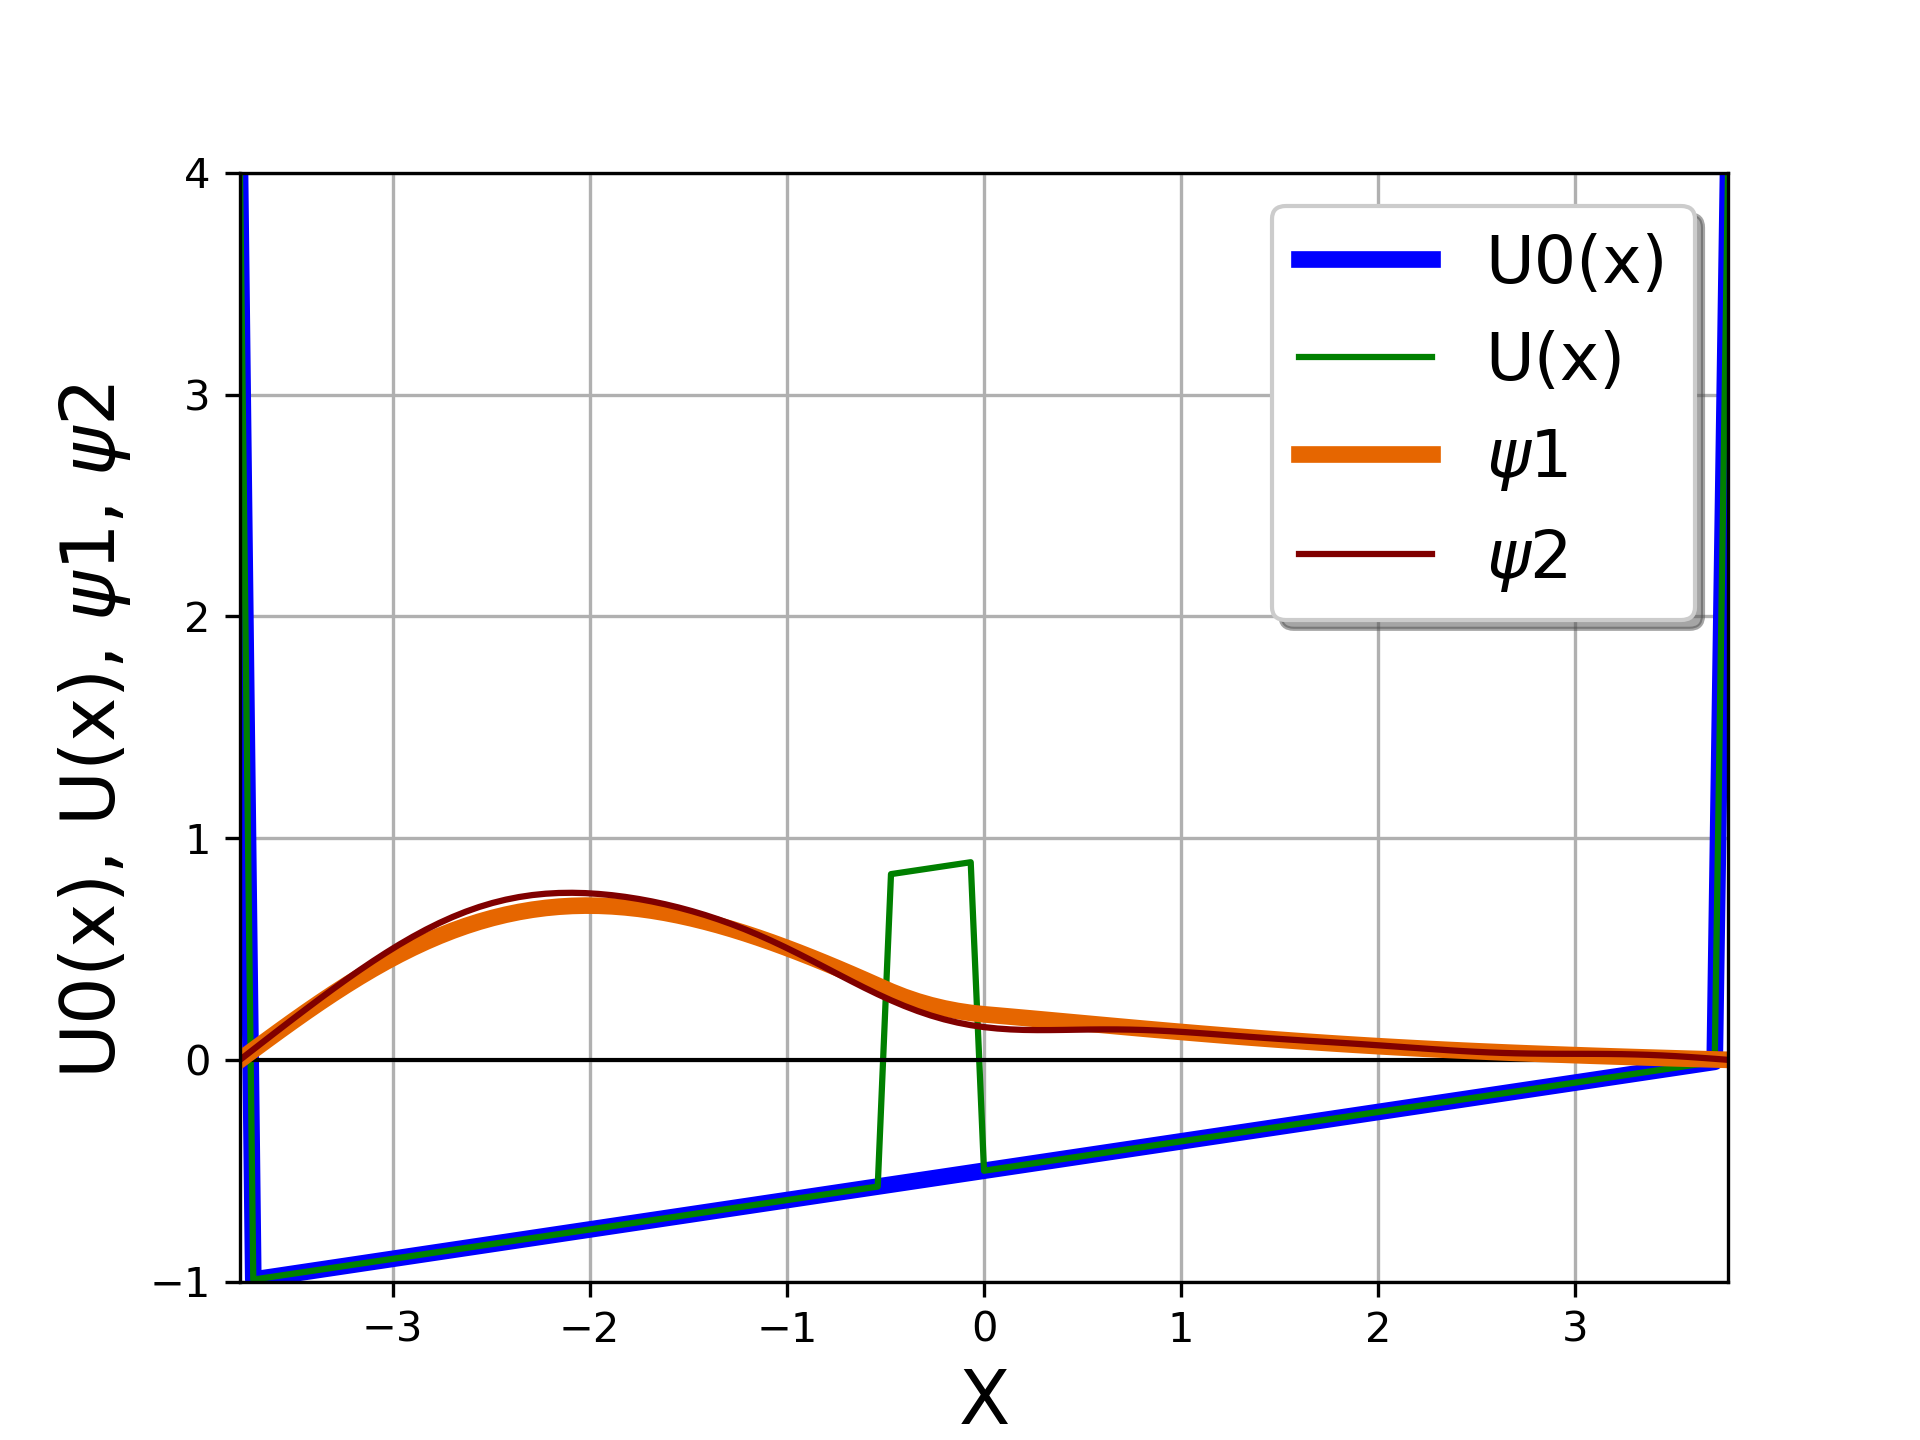
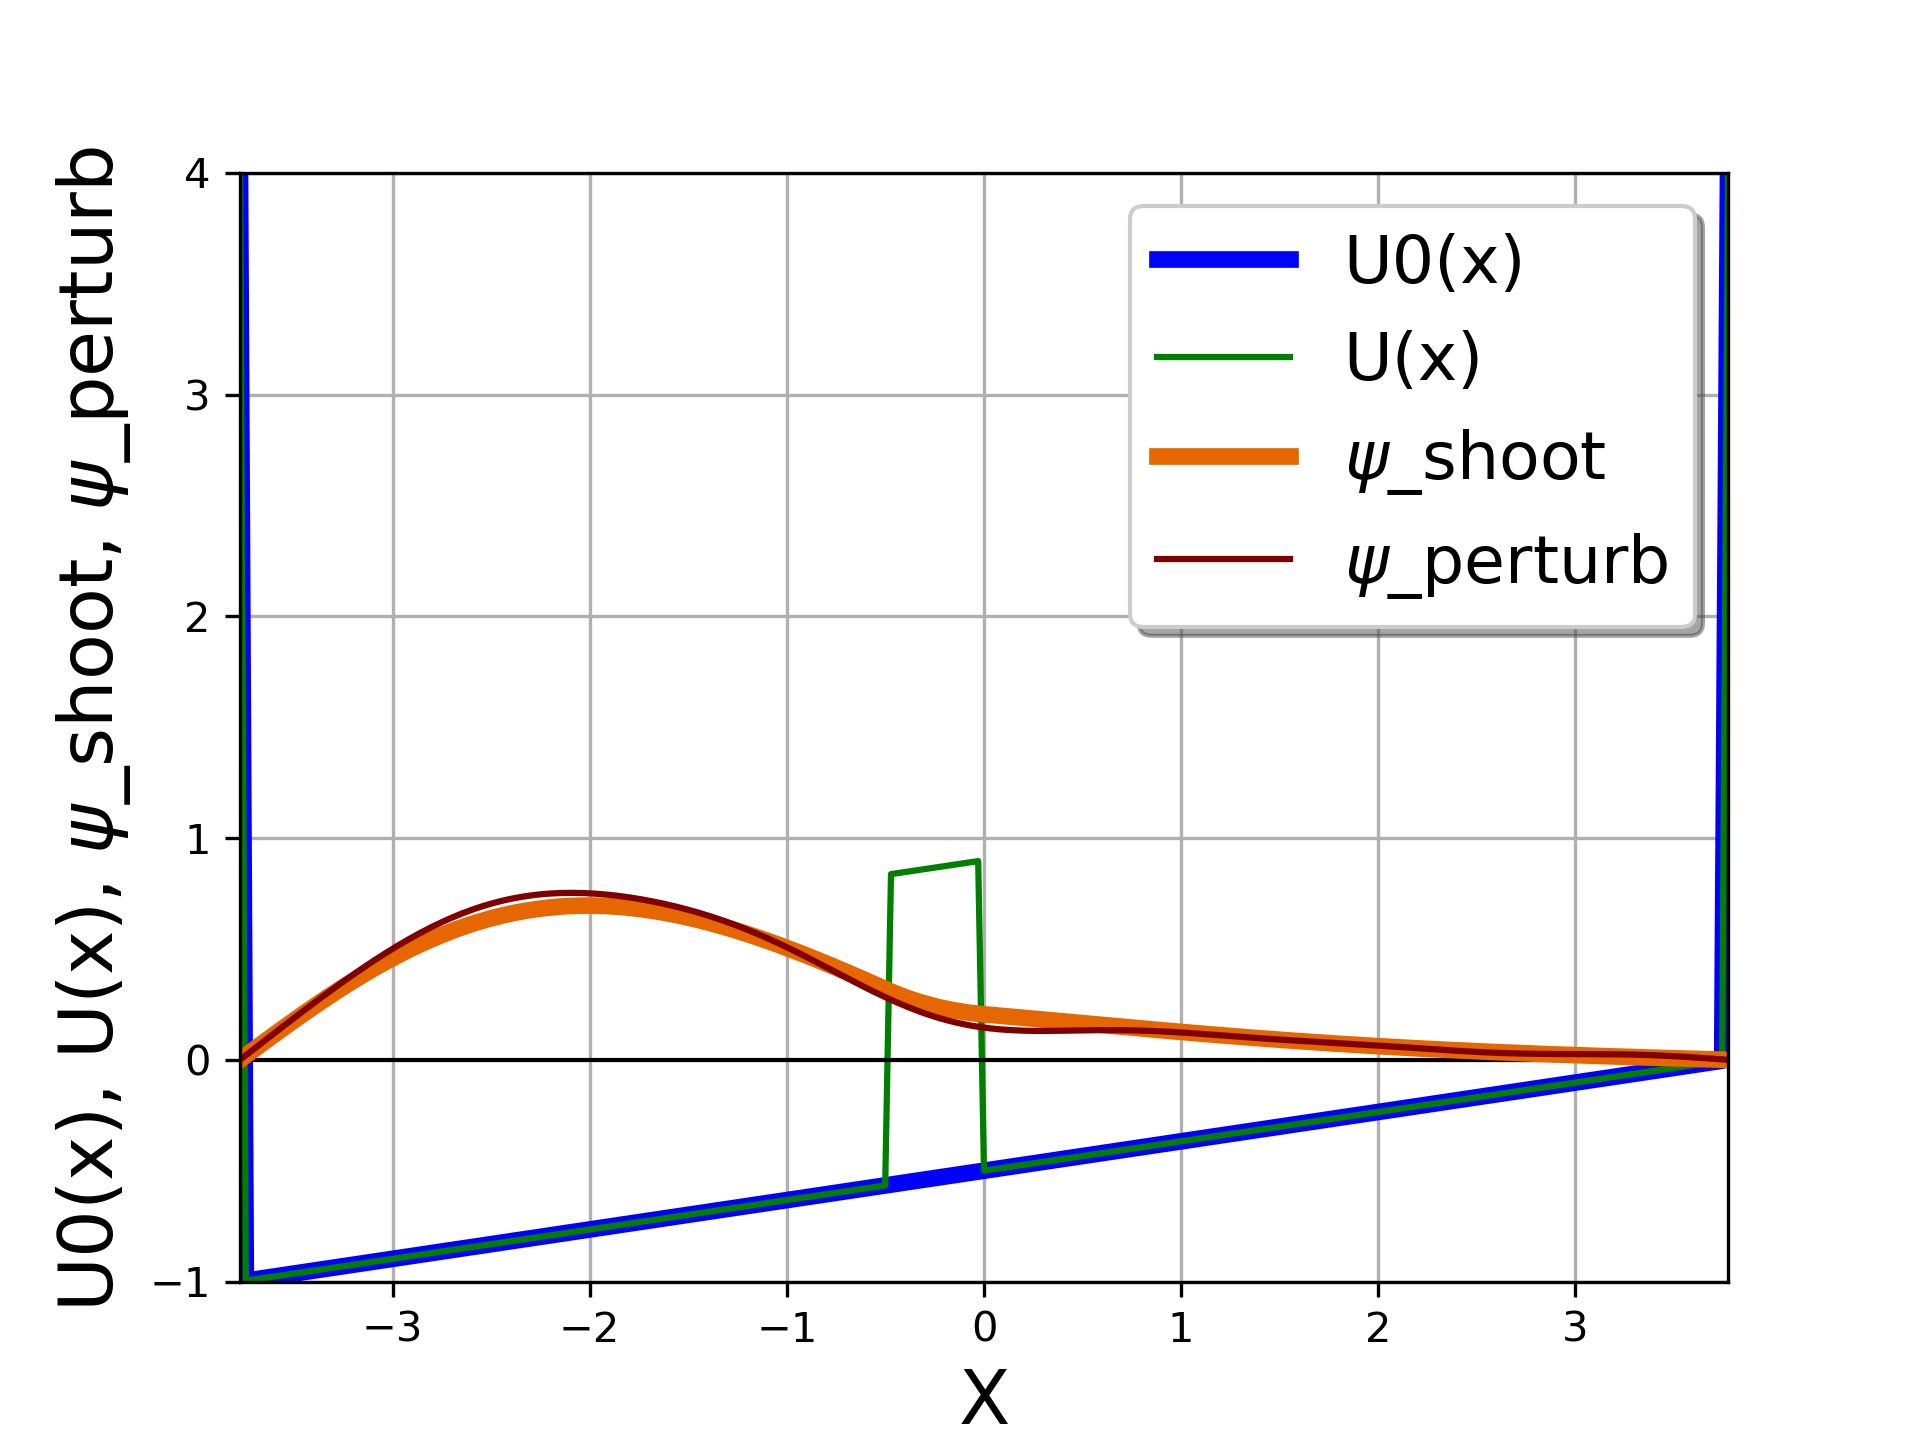
WIP: STILL mostly cosmetics.

diff --git a/main.py b/main.py
@@ -20,14 +20,13 @@ class Shooting_method:
     L = convert_angstrom_to_atomic_units(2.0)
     A = -L
     B = +L
-    # number of mesh node
-    n = 113  # odd integer number
 
-    def __init__(self, fun_U, U0, ne, e2, count_e):
+    def __init__(self, fun_U, U0, ne, e2, count_e, n):
         self.U = fun_U
         self.U0 = U0
         self.ne = ne
         self.e2 = e2
+        self.n = n
 
         self.X = np.linspace(self.A, self.B, self.n)  # forward
         self.XX = np.linspace(self.B, self.A, self.n)  # backwards
@@ -154,7 +153,7 @@ L = convert_angstrom_to_atomic_units(2.0)
 W = 4.0
 A = -L
 B = +L
-n = 113
+n = 257
 X = np.linspace(A, B, n)  # forward
 
 def fun_U_0(x):
@@ -187,10 +186,10 @@ def plot(U0, U, psi1, psi2):
     plt.plot(X, U, 'g-', linewidth=1.5, label="U(x)")
     Zero = np.zeros(n, dtype=float)
     plt.plot(X, Zero, 'k-', linewidth=1.0)  # abscissa axis
-    plt.plot(X, psi1, color=(0.9, 0.4, 0.0), linewidth=4.0, label="$\psi$1")
-    plt.plot(X, psi2, color=(0.5, 0.0, 0.0), linewidth=1.5, label="$\psi$2")
+    plt.plot(X, psi1, color=(0.9, 0.4, 0.0), linewidth=4.0, label="$\psi$_shoot")
+    plt.plot(X, psi2, color=(0.5, 0.0, 0.0), linewidth=1.5, label="$\psi$_perturb")
     plt.xlabel("X", fontsize=18, color="k")
-    plt.ylabel("U0(x), U(x), $\psi$1, $\psi$2 ", fontsize=18, color="k")
+    plt.ylabel("U0(x), U(x), $\psi$_shoot, $\psi$_perturb ", fontsize=18, color="k")
     plt.grid(True)
     plt.legend(fontsize=16, shadow=True, fancybox=True, loc='upper right')
     plt.savefig("graphs", dpi=300)
@@ -211,7 +210,7 @@ def convergence_check(V, energy_U0, psi_U0, value_fun_V ):
 
 
 
-shooting_for_U0 = Shooting_method(fun_U_0, U0=-0.99999, ne=101, e2=15, count_e=10)
+shooting_for_U0 = Shooting_method(fun_U_0, U0=-0.99999, ne=101, e2=15, count_e=10, n=n)
 energy_U0, psi_U0 = shooting_for_U0.get_energy()
 for i in np.arange(len(energy_U0)):
     stroka = "i = {:1d}    energy[i] = {:12.5f}"
@@ -236,7 +235,9 @@ for i in range(len(psi_U0[i])):
         sum += V[0][j] / (energy_U0[0] - energy_U0[j]) * psi_U0[j][i]
     psi0.append(psi_U0[0][i] + sum)
 
-shooting_for_U = Shooting_method(fun_U, U0=-0.99999, ne=101, e2=15, count_e=1)
+
+
+shooting_for_U = Shooting_method(fun_U, U0=-0.99999, ne=101, e2=15, count_e=1, n=n)
 energy_U, psi_U = shooting_for_U.get_energy()
 
 
